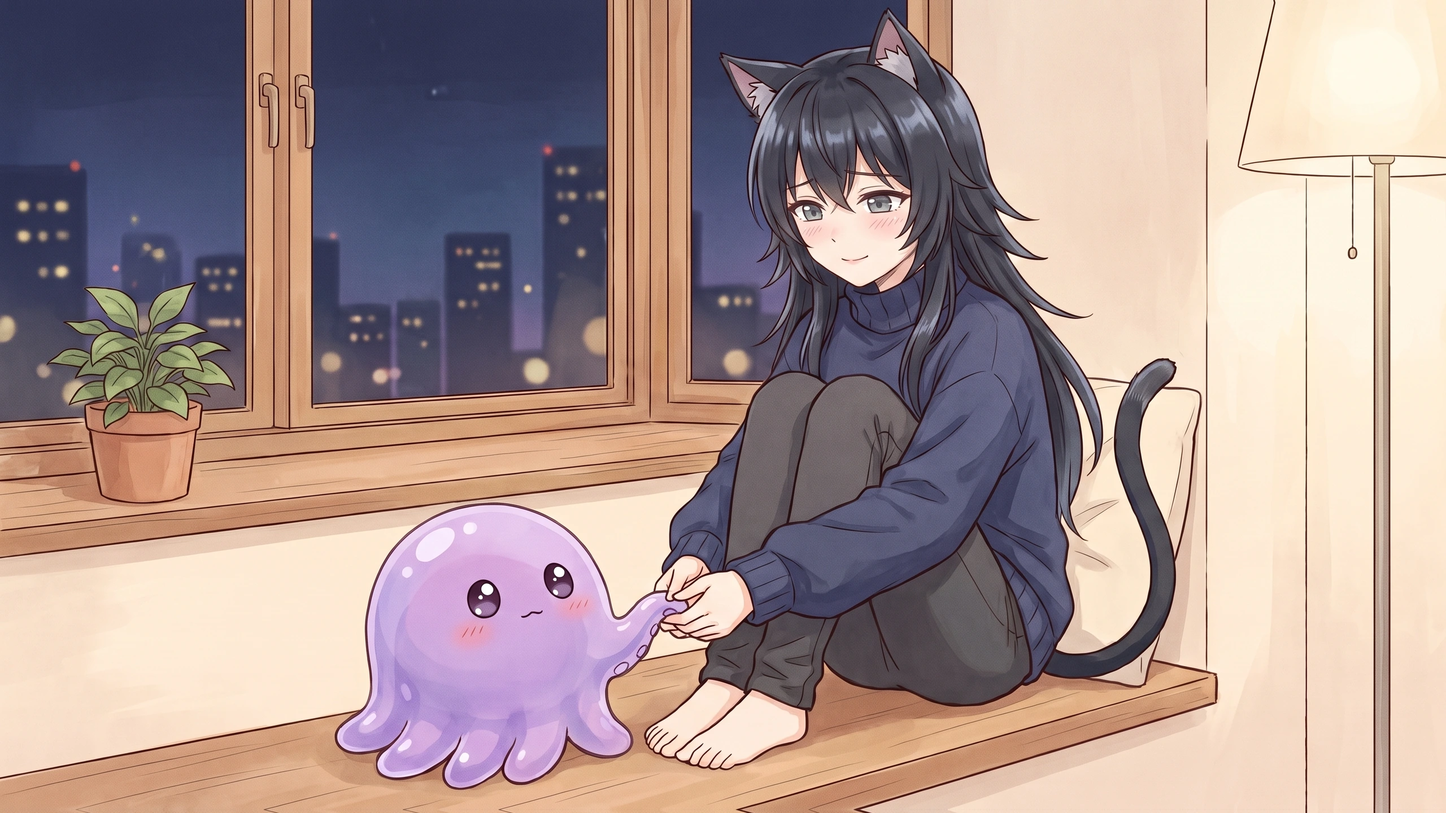
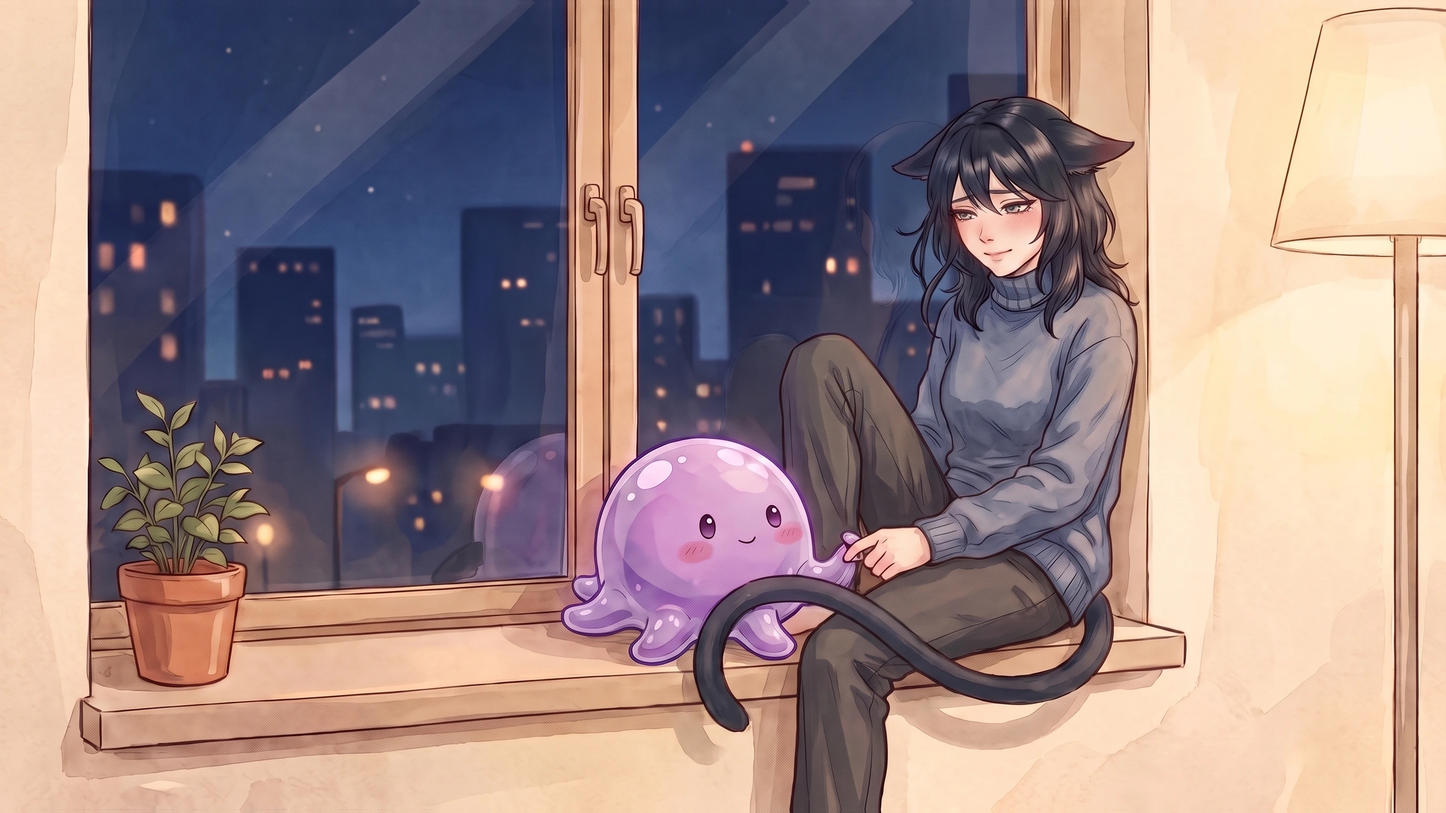
Use v11 cursor_shallow and workbuddy_greedy; record CG rework in docs

diff --git a/CHANGELOG.md b/CHANGELOG.md
@@ -2,6 +2,14 @@
 
 当前本地开发版本为 **v0.3.0**。日期表示本地变更记录，不表示 Git 标签、远程发布或线上部署；制作流程、源码实现与最终验收分别记录。
 
+## 事件 CG 逐张返修（visual-v12–v16）— 2026-09-28
+
+- 按用户逐张意见重画并替换：`workbuddy_shallow`（按原始人设彻底重画，v12）、`claude_greedy`（闭眼抱紧零、一滴泪、微笑，v13）、`codex_shallow`（v14）、`codex_greedy`（与零对视、触手贴脸、手指相勾，强调互动，v16）。`cursor_shallow`、`workbuddy_greedy` 采用 v11 版本。被替换的旧图存于 `_archive/2026-09-28/src-assets-v11/`。
+
+## 事件 CG 画风统一（visual-v11）— 2026-09-28
+
+- 按 `claude_shallow` 与 deep CG 的水彩纸画风重绘并替换 `cursor_shallow`、`workbuddy_shallow`、`codex_greedy`、`claude_greedy`、`workbuddy_greedy`：Codex greedy 改为自然的得意倦笑，Claude greedy 为含泪的开心笑；成品 2560×1440 RGB WebP。`codex_shallow` 三次尝试均不合格，保留 v10。共 14 个服务任务。v10 旧图存于 `_archive/2026-09-28/src-assets-v10/`，详见 `docs/design/art-log.md` 第 9 节。
+
 ## 全身立绘与事件 CG 重绘（visual-v10）— 2026-09-28
 
 - **立绘**：Claude、Cursor 换成头到鞋的全身版（与 Codex、WorkBuddy 同样取景），与封面服装一致；BiRefNet-HR-matting 去背景，1120×1680 RGBA WebP。`src/ui/styles.css` 中 claude / cursor 的 `--eye`、`--head`、`--cx` 按新图重测，codex / workbuddy 未动。
